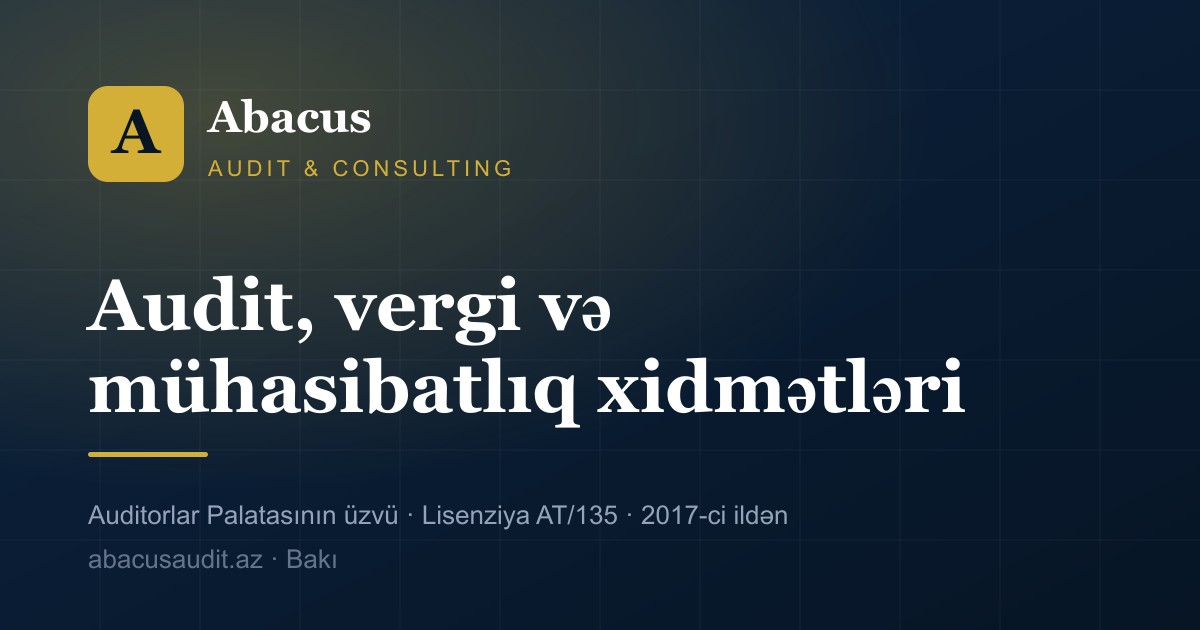
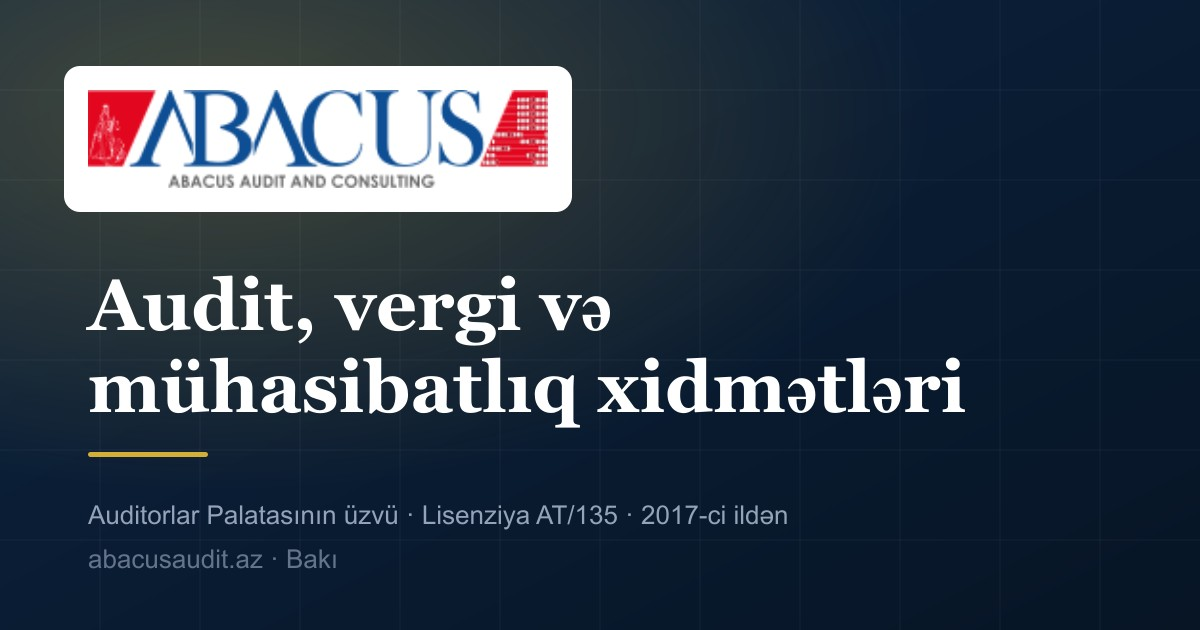
Fixed the seo

Changed region(s): [[0.0308, 0.0905, 0.4933, 0.3619]]

diff --git a/src/components/layout/Navbar.tsx b/src/components/layout/Navbar.tsx
@@ -49,22 +49,11 @@ export function Navbar() {
         }`}
       >
         <Link to="/" className="flex shrink-0 items-center gap-2">
-          {logoUrl ? (
-            <img
-              src={logoUrl}
-              alt="Abacus Audit"
-              className={`w-auto transition-all duration-500 ${scrolled ? "h-8 lg:h-9" : "h-9 lg:h-11"}`}
-            />
-          ) : (
-            <>
-              <span className="grid h-10 w-10 place-items-center rounded-lg bg-navy-900 font-bold text-gold-400">
-                A
-              </span>
-              <span className="text-lg font-bold tracking-tight text-navy-900">
-                Abacus<span className="text-gold-500">Audit</span>
-              </span>
-            </>
-          )}
+          <img
+            src={logoUrl || "/logo.png"}
+            alt="Abacus Audit"
+            className={`w-auto transition-all duration-500 ${scrolled ? "h-8 lg:h-9" : "h-9 lg:h-11"}`}
+          />
         </Link>
 
         <ul className="hidden min-w-0 flex-1 items-center justify-center gap-0.5 lg:flex xl:gap-1">

diff --git a/src/components/layout/Footer.tsx b/src/components/layout/Footer.tsx
@@ -46,18 +46,7 @@ export function Footer() {
       <div className="mx-auto grid max-w-7xl gap-10 px-4 py-16 lg:grid-cols-4 lg:px-8">
         <div className="lg:col-span-1">
           <div className="flex items-center gap-2">
-            {logoUrl ? (
-              <img src={logoUrl} alt="Abacus Audit" className="h-10 w-auto" />
-            ) : (
-              <>
-                <span className="grid h-10 w-10 place-items-center rounded-lg bg-gold-500 font-bold text-navy-950">
-                  A
-                </span>
-                <span className="text-lg font-bold text-white">
-                  Abacus<span className="text-gold-400">Audit</span>
-                </span>
-              </>
-            )}
+            <img src={logoUrl || "/logo.png"} alt="Abacus Audit" className="h-10 w-auto" />
           </div>
           <p className="mt-4 text-sm leading-relaxed text-slate-400">
             {settings.tagline}. {t("footer.taglineExtra")}

diff --git a/index.html b/index.html
@@ -4,8 +4,10 @@
     <meta charset="UTF-8" />
     <meta name="viewport" content="width=device-width, initial-scale=1.0" />
 
-    <link rel="icon" type="image/svg+xml" href="/favicon.svg" />
-    <link rel="apple-touch-icon" href="/favicon.svg" />
+    <link rel="icon" type="image/png" sizes="16x16" href="/favicon-16.png" />
+    <link rel="icon" type="image/png" sizes="32x32" href="/favicon-32.png" />
+    <link rel="icon" type="image/png" sizes="192x192" href="/favicon-192.png" />
+    <link rel="apple-touch-icon" sizes="180x180" href="/apple-touch-icon.png" />
     <meta name="theme-color" content="#0c2340" />
 
     <link rel="preconnect" href="https://fonts.googleapis.com" />
